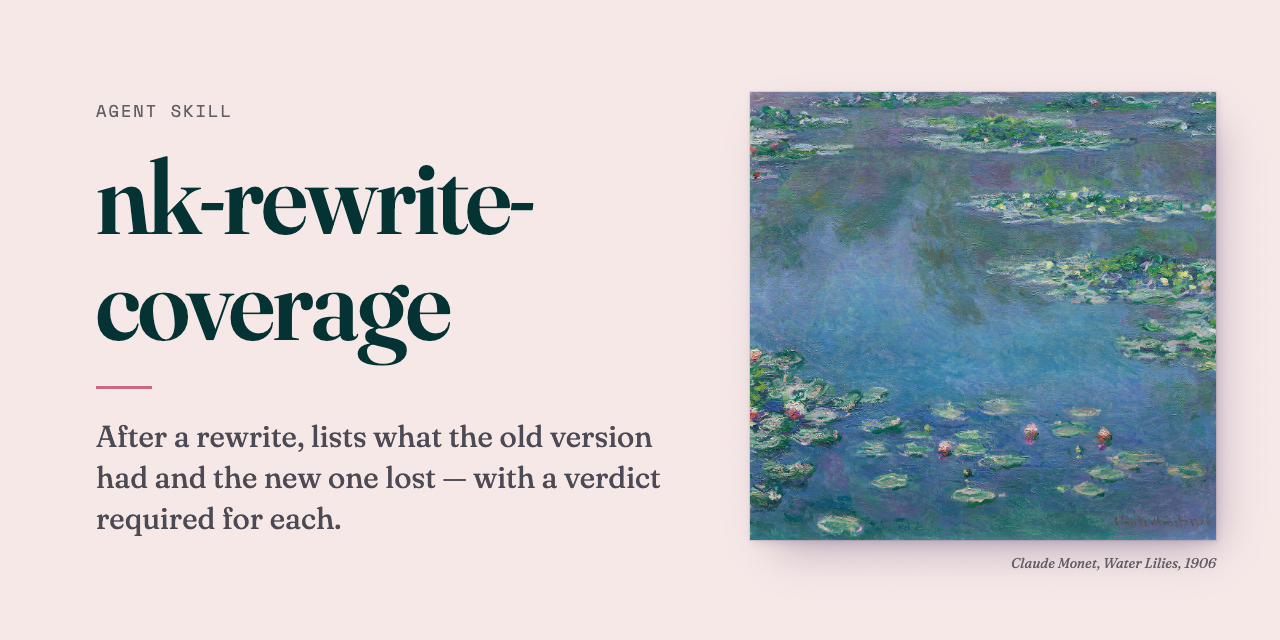
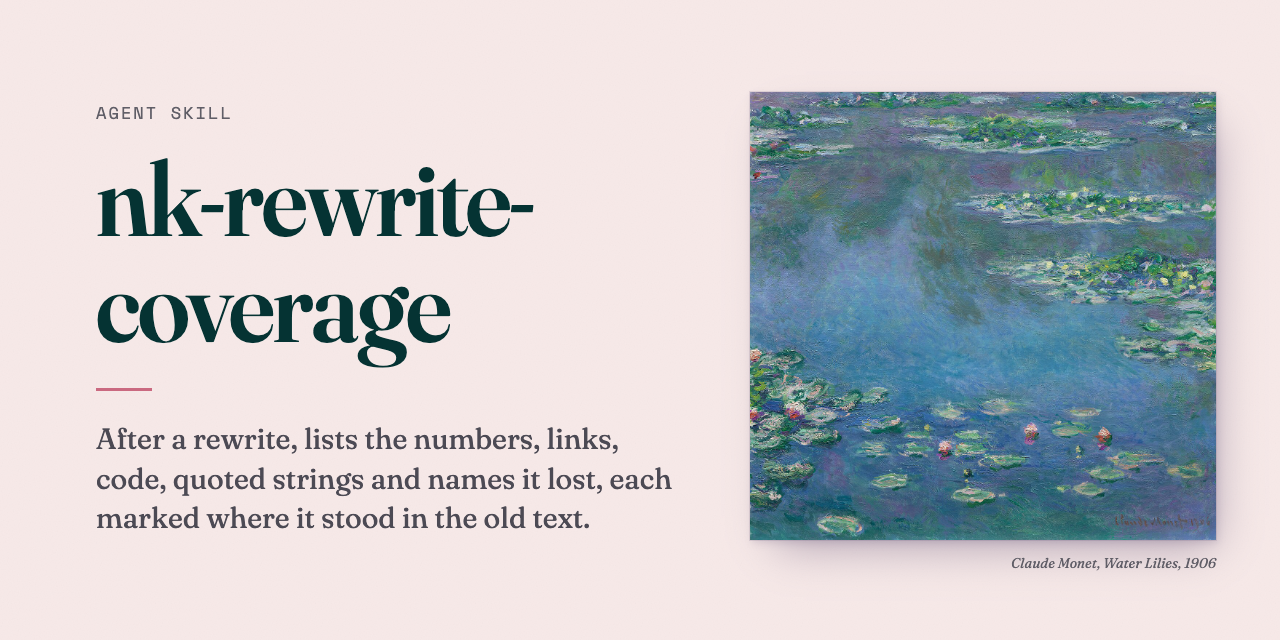
Gallery: nk-design and nk-rewrite-coverage shown as 0.2.0 and 0.2.2
Both cards, both demo GIFs and the nk-rewrite-coverage banner still described
the versions before this morning's releases. The nk-rewrite-coverage card and
banner now say what 0.2.2 does (lists the numbers, links, code, quoted strings
and names a rewrite lost, each marked where it stood in the old text), and its
demo is drawn from a run of 0.2.2. The nk-design card mentions the four
first-screen forms and its demo is one of the five runs recorded on 0.2.0.
gallery/results/ gains the pictures the two READMEs now link to.

README.md, docs/ and gallery/ only; no plugin copy or marketplace file changes.

diff --git a/docs/index.html b/docs/index.html
@@ -39,7 +39,7 @@ footer{background:var(--anchor);color:var(--on-anchor-2);padding:var(--space-5) 
 <div class="topbar"><span class="mark"><svg width="12" height="12" viewBox="0 0 12 12" aria-hidden="true"><circle cx="6" cy="6" r="4.5" fill="none" stroke="currentColor" stroke-width="1.6"/></svg>nickkk-skills</span><details class="appearance"><summary>Theme</summary><div class="appearance-panel"><fieldset><legend>Palette</legend><label class="pick"><input type="radio" name="nl-theme" value="plaster" checked><span class="swatch" aria-hidden="true"><i></i><i></i><i></i></span>Water lilies</label><label class="pick"><input type="radio" name="nl-theme" value="paper"><span class="swatch" data-theme="paper" aria-hidden="true"><i></i><i></i><i></i></span>Morning light</label><label class="pick"><input type="radio" name="nl-theme" value="ink"><span class="swatch" data-theme="ink" aria-hidden="true"><i></i><i></i><i></i></span>Dusk</label></fieldset><fieldset><legend>Appearance</legend><label class="seg"><input type="radio" name="nl-scheme" value="system" checked>System</label><label class="seg"><input type="radio" name="nl-scheme" value="light">Light</label><label class="seg"><input type="radio" name="nl-scheme" value="dark">Dark</label></fieldset><p>Saved on this device only.</p></div></details></div>
 <header><h1>nickkk-skills</h1><p class="tagline">21 agent skills for Claude Code (20 also tested in OpenAI Codex): nine that make something new — a novel plan, a murder-mystery party game, a data tool, a data story from a spreadsheet, a booking page, a deck, a three-statement financial model, a formula explorer page, a page to post X drafts from by hand — and twelve that stop &quot;done, tested, safe&quot; from being taken on faith.</p><pre><code>/plugin marketplace add NickkkLian/nickkk-skills</code></pre></header>
 <main class="grid">
-<article class="card"><a href="https://github.com/NickkkLian/nk-design"><img src="https://raw.githubusercontent.com/NickkkLian/nickkk-skills/main/gallery/nk-design.gif" alt="nk-design demo" loading="lazy"></a><h2><a href="https://github.com/NickkkLian/nk-design">nk-design</a> <span class="tag creation">creation</span></h2><p>One sentence in: a working data tool whose first screen reconciles to the cent and whose every row shows its source.</p><pre><code>git clone https://github.com/NickkkLian/nk-design ~/.claude/skills/nk-design</code></pre><pre class="codex"><code>git clone https://github.com/NickkkLian/nk-design.git ~/.agents/skills/nk-design</code></pre></article>
+<article class="card"><a href="https://github.com/NickkkLian/nk-design"><img src="https://raw.githubusercontent.com/NickkkLian/nickkk-skills/main/gallery/nk-design.gif" alt="nk-design demo" loading="lazy"></a><h2><a href="https://github.com/NickkkLian/nk-design">nk-design</a> <span class="tag creation">creation</span></h2><p>One sentence in: a working data tool whose first screen takes one of four forms, adds up from its own rows and shows a source on every row.</p><pre><code>git clone https://github.com/NickkkLian/nk-design ~/.claude/skills/nk-design</code></pre><pre class="codex"><code>git clone https://github.com/NickkkLian/nk-design.git ~/.agents/skills/nk-design</code></pre></article>
 <article class="card"><a href="https://github.com/NickkkLian/nk-data-story"><img src="https://raw.githubusercontent.com/NickkkLian/nickkk-skills/main/gallery/nk-data-story.gif" alt="nk-data-story demo" loading="lazy"></a><h2><a href="https://github.com/NickkkLian/nk-data-story">nk-data-story</a> <span class="tag creation">creation</span></h2><p>A messy export in: one page whose headline is the conclusion and where every figure carries its n, window and filter.</p><pre><code>git clone https://github.com/NickkkLian/nk-data-story ~/.claude/skills/nk-data-story</code></pre><pre class="codex"><code>git clone https://github.com/NickkkLian/nk-data-story.git ~/.agents/skills/nk-data-story</code></pre></article>
 <article class="card"><a href="https://github.com/NickkkLian/nk-novel"><img src="https://raw.githubusercontent.com/NickkkLian/nickkk-skills/main/gallery/nk-novel.gif" alt="nk-novel demo" loading="lazy"></a><h2><a href="https://github.com/NickkkLian/nk-novel">nk-novel</a> <span class="tag creation">creation</span></h2><p>One story idea in: a staged novel plan, checked for holes, and a one-page story bible you can open.</p><pre><code>git clone https://github.com/NickkkLian/nk-novel ~/.claude/skills/nk-novel</code></pre><pre class="codex"><code>git clone https://github.com/NickkkLian/nk-novel.git ~/.agents/skills/nk-novel</code></pre></article>
 <article class="card"><a href="https://github.com/NickkkLian/nk-jubensha"><img src="https://raw.githubusercontent.com/NickkkLian/nickkk-skills/main/gallery/nk-jubensha.gif" alt="nk-jubensha demo" loading="lazy"></a><h2><a href="https://github.com/NickkkLian/nk-jubensha">nk-jubensha</a> <span class="tag creation">creation</span></h2><p>One premise in: a five-player murder-mystery game with booklets and clue cards, proven solvable by a detective that never saw the answer.</p><pre><code>git clone https://github.com/NickkkLian/nk-jubensha ~/.claude/skills/nk-jubensha</code></pre><pre class="codex"><code>git clone https://github.com/NickkkLian/nk-jubensha.git ~/.agents/skills/nk-jubensha</code></pre></article>
@@ -56,7 +56,7 @@ footer{background:var(--anchor);color:var(--on-anchor-2);padding:var(--space-5) 
 <article class="card"><a href="https://github.com/NickkkLian/nk-memory-with-conditions"><img src="https://raw.githubusercontent.com/NickkkLian/nickkk-skills/main/gallery/nk-memory-with-conditions.gif" alt="nk-memory-with-conditions demo" loading="lazy"></a><h2><a href="https://github.com/NickkkLian/nk-memory-with-conditions">nk-memory-with-conditions</a> <span class="tag discipline">discipline</span></h2><p>Agent memories that say when they hold, plus a sentinel for index drift and silent truncation.</p><pre><code>git clone https://github.com/NickkkLian/nk-memory-with-conditions ~/.claude/skills/nk-memory-with-conditions</code></pre><pre class="codex"><code>git clone https://github.com/NickkkLian/nk-memory-with-conditions.git ~/.agents/skills/nk-memory-with-conditions</code></pre></article>
 <article class="card"><a href="https://github.com/NickkkLian/nk-rules-that-land"><img src="https://raw.githubusercontent.com/NickkkLian/nickkk-skills/main/gallery/nk-rules-that-land.gif" alt="nk-rules-that-land demo" loading="lazy"></a><h2><a href="https://github.com/NickkkLian/nk-rules-that-land">nk-rules-that-land</a> <span class="tag discipline">discipline</span></h2><p>Tells you which rules in your CLAUDE.md would actually stop an agent and which are wishes.</p><pre><code>git clone https://github.com/NickkkLian/nk-rules-that-land ~/.claude/skills/nk-rules-that-land</code></pre><pre class="codex"><code>git clone https://github.com/NickkkLian/nk-rules-that-land.git ~/.agents/skills/nk-rules-that-land</code></pre></article>
 <article class="card"><a href="https://github.com/NickkkLian/nk-regression-baseline"><img src="https://raw.githubusercontent.com/NickkkLian/nickkk-skills/main/gallery/nk-regression-baseline.gif" alt="nk-regression-baseline demo" loading="lazy"></a><h2><a href="https://github.com/NickkkLian/nk-regression-baseline">nk-regression-baseline</a> <span class="tag discipline">discipline</span></h2><p>Freezes what production code prints today so tomorrow&#x27;s refactor has to prove it changed nothing.</p><pre><code>git clone https://github.com/NickkkLian/nk-regression-baseline ~/.claude/skills/nk-regression-baseline</code></pre><pre class="codex"><code>git clone https://github.com/NickkkLian/nk-regression-baseline.git ~/.agents/skills/nk-regression-baseline</code></pre></article>
-<article class="card"><a href="https://github.com/NickkkLian/nk-rewrite-coverage"><img src="https://raw.githubusercontent.com/NickkkLian/nickkk-skills/main/gallery/nk-rewrite-coverage.gif" alt="nk-rewrite-coverage demo" loading="lazy"></a><h2><a href="https://github.com/NickkkLian/nk-rewrite-coverage">nk-rewrite-coverage</a> <span class="tag discipline">discipline</span></h2><p>After a rewrite, lists what the old version had and the new one lost — with a verdict required for each.</p><pre><code>git clone https://github.com/NickkkLian/nk-rewrite-coverage ~/.claude/skills/nk-rewrite-coverage</code></pre><pre class="codex"><code>git clone https://github.com/NickkkLian/nk-rewrite-coverage.git ~/.agents/skills/nk-rewrite-coverage</code></pre></article>
+<article class="card"><a href="https://github.com/NickkkLian/nk-rewrite-coverage"><img src="https://raw.githubusercontent.com/NickkkLian/nickkk-skills/main/gallery/nk-rewrite-coverage.gif" alt="nk-rewrite-coverage demo" loading="lazy"></a><h2><a href="https://github.com/NickkkLian/nk-rewrite-coverage">nk-rewrite-coverage</a> <span class="tag discipline">discipline</span></h2><p>After a rewrite, lists the numbers, links, code, quoted strings and names it lost, each marked where it stood in the old text.</p><pre><code>git clone https://github.com/NickkkLian/nk-rewrite-coverage ~/.claude/skills/nk-rewrite-coverage</code></pre><pre class="codex"><code>git clone https://github.com/NickkkLian/nk-rewrite-coverage.git ~/.agents/skills/nk-rewrite-coverage</code></pre></article>
 <article class="card"><a href="https://github.com/NickkkLian/nk-two-brain"><img src="https://raw.githubusercontent.com/NickkkLian/nickkk-skills/main/gallery/nk-two-brain.gif" alt="nk-two-brain demo" loading="lazy"></a><h2><a href="https://github.com/NickkkLian/nk-two-brain">nk-two-brain</a> <span class="tag discipline">discipline</span></h2><p>Claude writes the handoff, Codex builds, and a run that did no building judges every claim: supported, not supported or insufficient.</p><pre><code>git clone https://github.com/NickkkLian/nk-two-brain ~/.claude/skills/nk-two-brain</code></pre><pre class="codex"><code>git clone https://github.com/NickkkLian/nk-two-brain.git ~/.agents/skills/nk-two-brain</code></pre></article>
 <article class="card"><a href="https://github.com/NickkkLian/nk-handoff-package"><img src="https://raw.githubusercontent.com/NickkkLian/nickkk-skills/main/gallery/nk-handoff-package.gif" alt="nk-handoff-package demo" loading="lazy"></a><h2><a href="https://github.com/NickkkLian/nk-handoff-package">nk-handoff-package</a> <span class="tag discipline">discipline</span></h2><p>Hand work to an agent with no context and get it back checkable, down to the trust root.</p><pre><code>git clone https://github.com/NickkkLian/nk-handoff-package ~/.claude/skills/nk-handoff-package</code></pre><pre class="codex"><code>git clone https://github.com/NickkkLian/nk-handoff-package.git ~/.agents/skills/nk-handoff-package</code></pre></article>
 <article class="card"><a href="https://github.com/NickkkLian/nk-explorer"><img src="https://raw.githubusercontent.com/NickkkLian/nickkk-skills/main/gallery/nk-explorer.gif" alt="nk-explorer demo" loading="lazy"></a><h2><a href="https://github.com/NickkkLian/nk-explorer">nk-explorer</a> <span class="tag creation">creation</span></h2><p>One formula in: a page where every slider shows the sum it changes, with practice questions graded on the result.</p><pre><code>git clone https://github.com/NickkkLian/nk-explorer ~/.claude/skills/nk-explorer</code></pre><pre class="codex"><code>git clone https://github.com/NickkkLian/nk-explorer.git ~/.agents/skills/nk-explorer</code></pre></article>

diff --git a/README.md b/README.md
@@ -28,7 +28,7 @@ A one-page report, a financial model, a data tool and a formula you can move; ev
 
 <table>
 <tr><td width="50%" valign="top"><a href="https://github.com/NickkkLian/nk-data-story"><img src="gallery/nk-data-story.gif" alt="nk-data-story demo" width="100%"></a><br><b><a href="https://github.com/NickkkLian/nk-data-story">nk-data-story</a></b> · creation<br>A messy export in: one page whose headline is the conclusion and where every figure carries its n, window and filter.<br><code>git clone https://github.com/NickkkLian/nk-data-story ~/.claude/skills/nk-data-story</code></td><td width="50%" valign="top"><a href="https://github.com/NickkkLian/nk-model"><img src="gallery/nk-model.gif" alt="nk-model demo" width="100%"></a><br><b><a href="https://github.com/NickkkLian/nk-model">nk-model</a></b> · creation<br>A few assumptions in: a three-statement financial model in one .xlsx, every number a formula, written only if it balances to the penny.<br><code>git clone https://github.com/NickkkLian/nk-model ~/.claude/skills/nk-model</code></td></tr>
-<tr><td width="50%" valign="top"><a href="https://github.com/NickkkLian/nk-design"><img src="gallery/nk-design.gif" alt="nk-design demo" width="100%"></a><br><b><a href="https://github.com/NickkkLian/nk-design">nk-design</a></b> · creation<br>One sentence in: a working data tool whose first screen reconciles to the cent and whose every row shows its source.<br><code>git clone https://github.com/NickkkLian/nk-design ~/.claude/skills/nk-design</code></td><td width="50%" valign="top"><a href="https://github.com/NickkkLian/nk-explorer"><img src="gallery/nk-explorer.gif" alt="nk-explorer demo" width="100%"></a><br><b><a href="https://github.com/NickkkLian/nk-explorer">nk-explorer</a></b> · creation<br>One formula in: a page where every slider shows the sum it changes, with practice questions graded on the result.<br><code>git clone https://github.com/NickkkLian/nk-explorer ~/.claude/skills/nk-explorer</code></td></tr>
+<tr><td width="50%" valign="top"><a href="https://github.com/NickkkLian/nk-design"><img src="gallery/nk-design.gif" alt="nk-design demo" width="100%"></a><br><b><a href="https://github.com/NickkkLian/nk-design">nk-design</a></b> · creation<br>One sentence in: a working data tool whose first screen takes one of four forms, adds up from its own rows and shows a source on every row.<br><code>git clone https://github.com/NickkkLian/nk-design ~/.claude/skills/nk-design</code></td><td width="50%" valign="top"><a href="https://github.com/NickkkLian/nk-explorer"><img src="gallery/nk-explorer.gif" alt="nk-explorer demo" width="100%"></a><br><b><a href="https://github.com/NickkkLian/nk-explorer">nk-explorer</a></b> · creation<br>One formula in: a page where every slider shows the sum it changes, with practice questions graded on the result.<br><code>git clone https://github.com/NickkkLian/nk-explorer ~/.claude/skills/nk-explorer</code></td></tr>
 </table>
 
 - [nk-data-story](https://github.com/NickkkLian/nk-data-story): Turn a CSV or Excel file into a one-page data report whose headline is the conclusion and where every figure states its denominator, window and filter.
@@ -43,7 +43,7 @@ When an agent says done, tested or unchanged, these turn the claim into evidence
 <table>
 <tr><td width="50%" valign="top"><a href="https://github.com/NickkkLian/nk-two-brain"><img src="gallery/nk-two-brain.gif" alt="nk-two-brain demo" width="100%"></a><br><b><a href="https://github.com/NickkkLian/nk-two-brain">nk-two-brain</a></b> · discipline<br>Claude writes the handoff, Codex builds, and a run that did no building judges every claim: supported, not supported or insufficient.<br><code>git clone https://github.com/NickkkLian/nk-two-brain ~/.claude/skills/nk-two-brain</code></td><td width="50%" valign="top"><a href="https://github.com/NickkkLian/nk-evidence-audit"><img src="gallery/nk-evidence-audit.gif" alt="nk-evidence-audit demo" width="100%"></a><br><b><a href="https://github.com/NickkkLian/nk-evidence-audit">nk-evidence-audit</a></b> · discipline<br>&quot;Fixed and tested&quot; becomes raw output a second agent judges: supported, not supported, insufficient.<br><code>git clone https://github.com/NickkkLian/nk-evidence-audit ~/.claude/skills/nk-evidence-audit</code></td></tr>
 <tr><td width="50%" valign="top"><a href="https://github.com/NickkkLian/nk-breakable-selftest"><img src="gallery/nk-breakable-selftest.gif" alt="nk-breakable-selftest demo" width="100%"></a><br><b><a href="https://github.com/NickkkLian/nk-breakable-selftest">nk-breakable-selftest</a></b> · discipline<br>Breaks the code your self-test guards, one line at a time, and names the checks that never react.<br><code>git clone https://github.com/NickkkLian/nk-breakable-selftest ~/.claude/skills/nk-breakable-selftest</code></td><td width="50%" valign="top"><a href="https://github.com/NickkkLian/nk-regression-baseline"><img src="gallery/nk-regression-baseline.gif" alt="nk-regression-baseline demo" width="100%"></a><br><b><a href="https://github.com/NickkkLian/nk-regression-baseline">nk-regression-baseline</a></b> · discipline<br>Freezes what production code prints today so tomorrow&#x27;s refactor has to prove it changed nothing.<br><code>git clone https://github.com/NickkkLian/nk-regression-baseline ~/.claude/skills/nk-regression-baseline</code></td></tr>
-<tr><td width="50%" valign="top"><a href="https://github.com/NickkkLian/nk-rewrite-coverage"><img src="gallery/nk-rewrite-coverage.gif" alt="nk-rewrite-coverage demo" width="100%"></a><br><b><a href="https://github.com/NickkkLian/nk-rewrite-coverage">nk-rewrite-coverage</a></b> · discipline<br>After a rewrite, lists what the old version had and the new one lost — with a verdict required for each.<br><code>git clone https://github.com/NickkkLian/nk-rewrite-coverage ~/.claude/skills/nk-rewrite-coverage</code></td></tr>
+<tr><td width="50%" valign="top"><a href="https://github.com/NickkkLian/nk-rewrite-coverage"><img src="gallery/nk-rewrite-coverage.gif" alt="nk-rewrite-coverage demo" width="100%"></a><br><b><a href="https://github.com/NickkkLian/nk-rewrite-coverage">nk-rewrite-coverage</a></b> · discipline<br>After a rewrite, lists the numbers, links, code, quoted strings and names it lost, each marked where it stood in the old text.<br><code>git clone https://github.com/NickkkLian/nk-rewrite-coverage ~/.claude/skills/nk-rewrite-coverage</code></td></tr>
 </table>
 
 - [nk-two-brain](https://github.com/NickkkLian/nk-two-brain): Hand a coding task from Claude to OpenAI Codex, re-run your own checks on what comes back, and have a run that did no building judge every claim: supported, not supported or insufficient.
